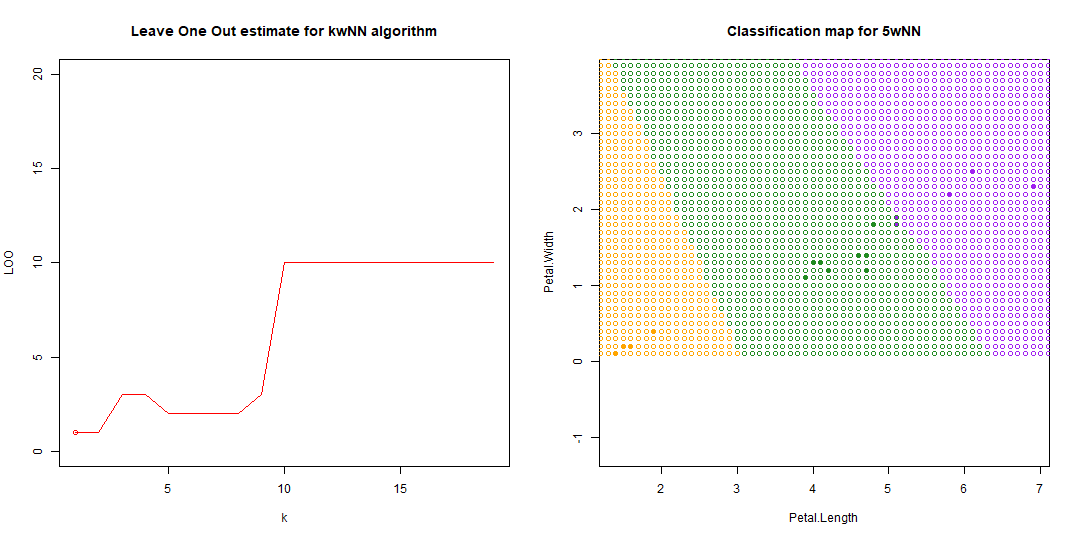
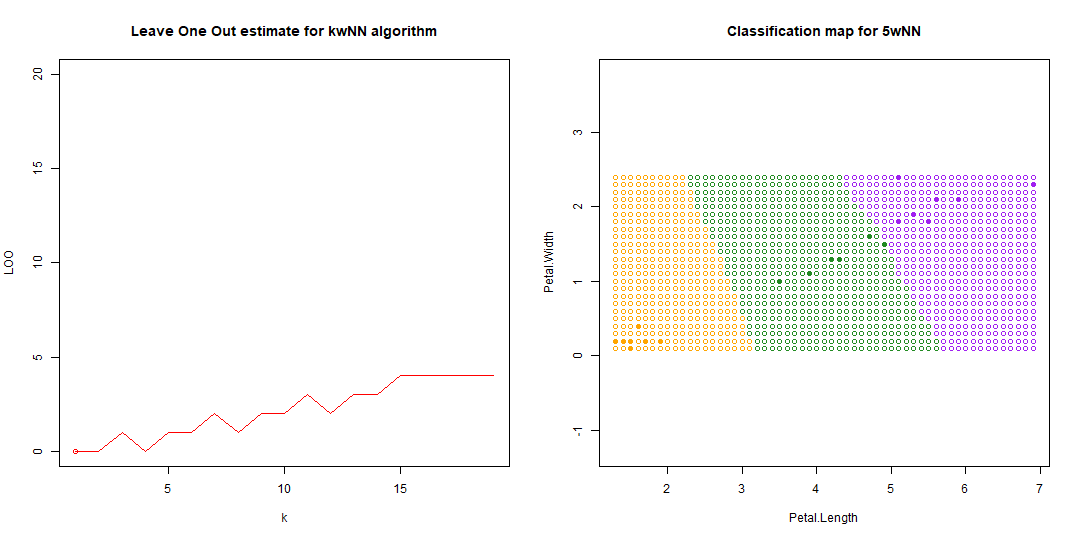
add table

diff --git a/README.md b/README.md
@@ -74,5 +74,16 @@ kwNN <- function(dat, point, k = 1)
 -----------------------
 kNN и kwNN довольно простые в реализации алгоритмы, но имеют довольно большое время выполнения.
 Исходя из скользящих оценок, алгоритмы kNN и kwNN теряют свою надежность по мере возрастания k. Оптимальные k:
-- для kNN - 3
-- для kwNN - 1
+
+Таблица для kwNN, w = {x: x=q^i, 0<q<1, i for (1,k)}:
+
+| q-параметр для W | Оптимальный k | Погрешность | Цвет           |
+|:----------------:| -------------:| -----------:|:--------------:|
+| 1.0              | 6             | 5           | красный        |
+| 0.99999          | 3             | 6           | темная орхидея |
+| 0.9999           | 3             | 6           | небесный       |
+| 0.999            | 3             | 6           | морской        |
+| 0.99             | 3             | 6           | лес/листва     |
+| 0.9              | 3             | 6           | лаймовый       |
+
+![LOO for some kwNN](big_LOO.png)
